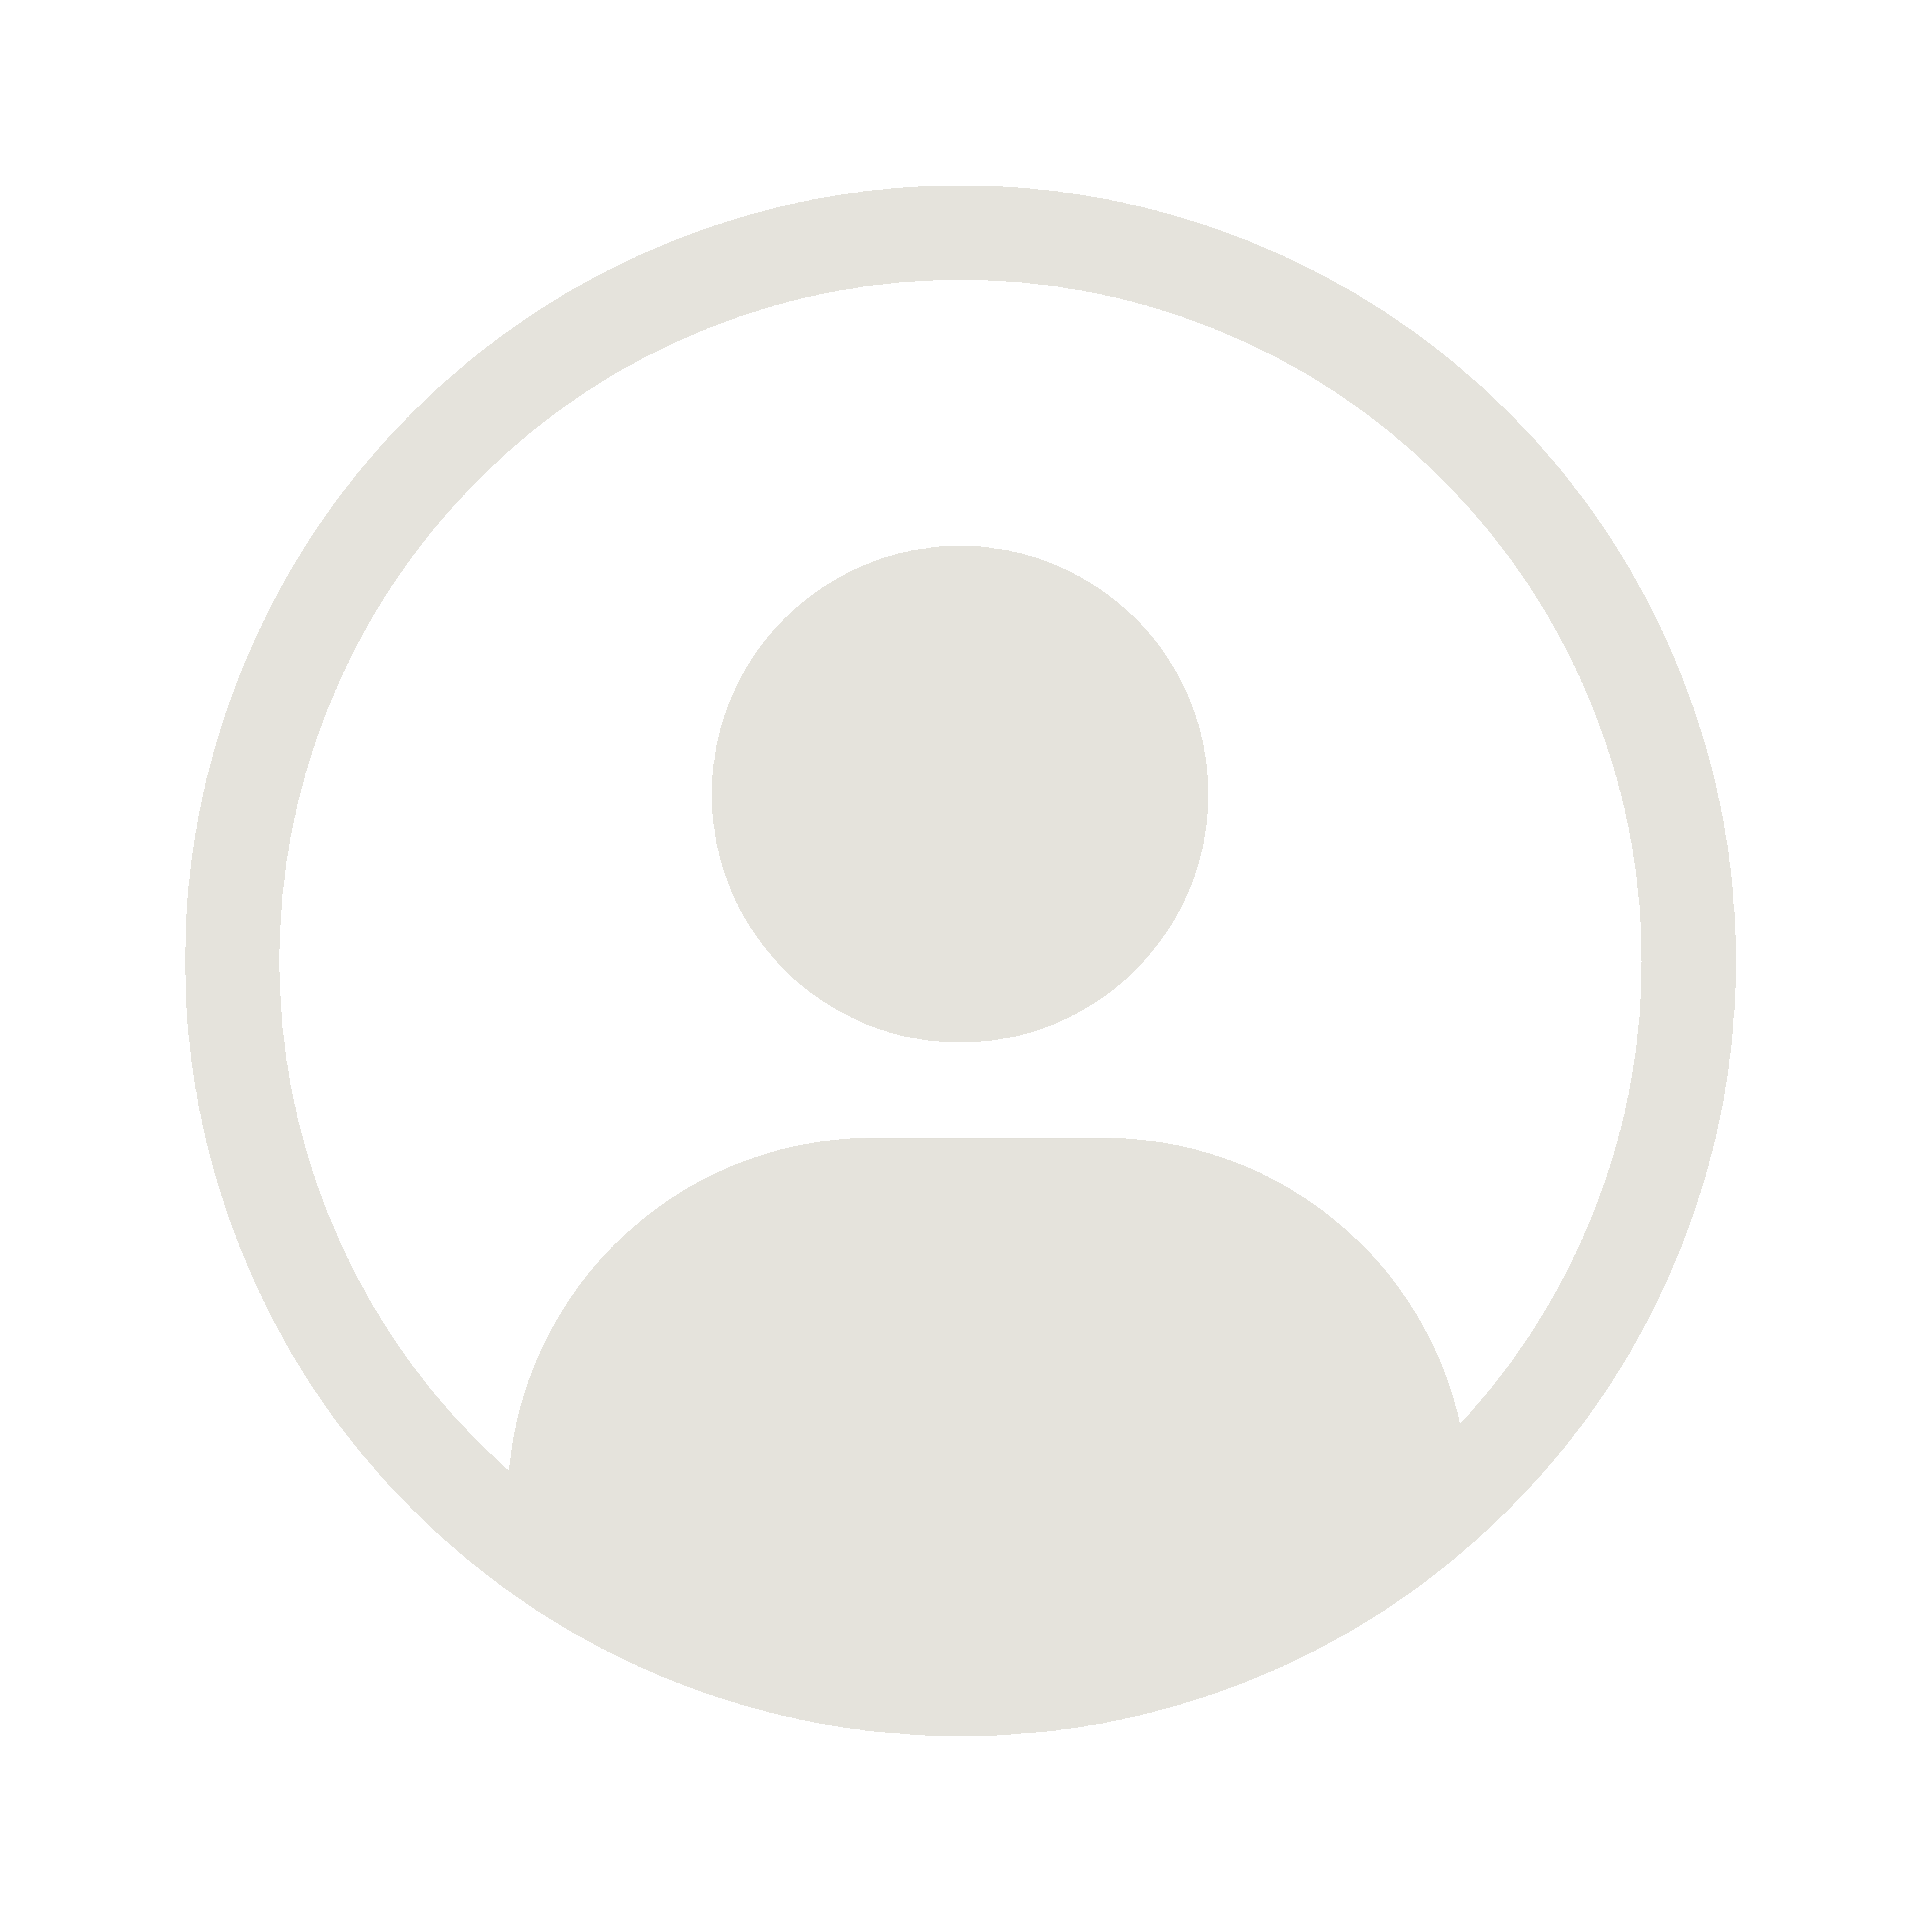
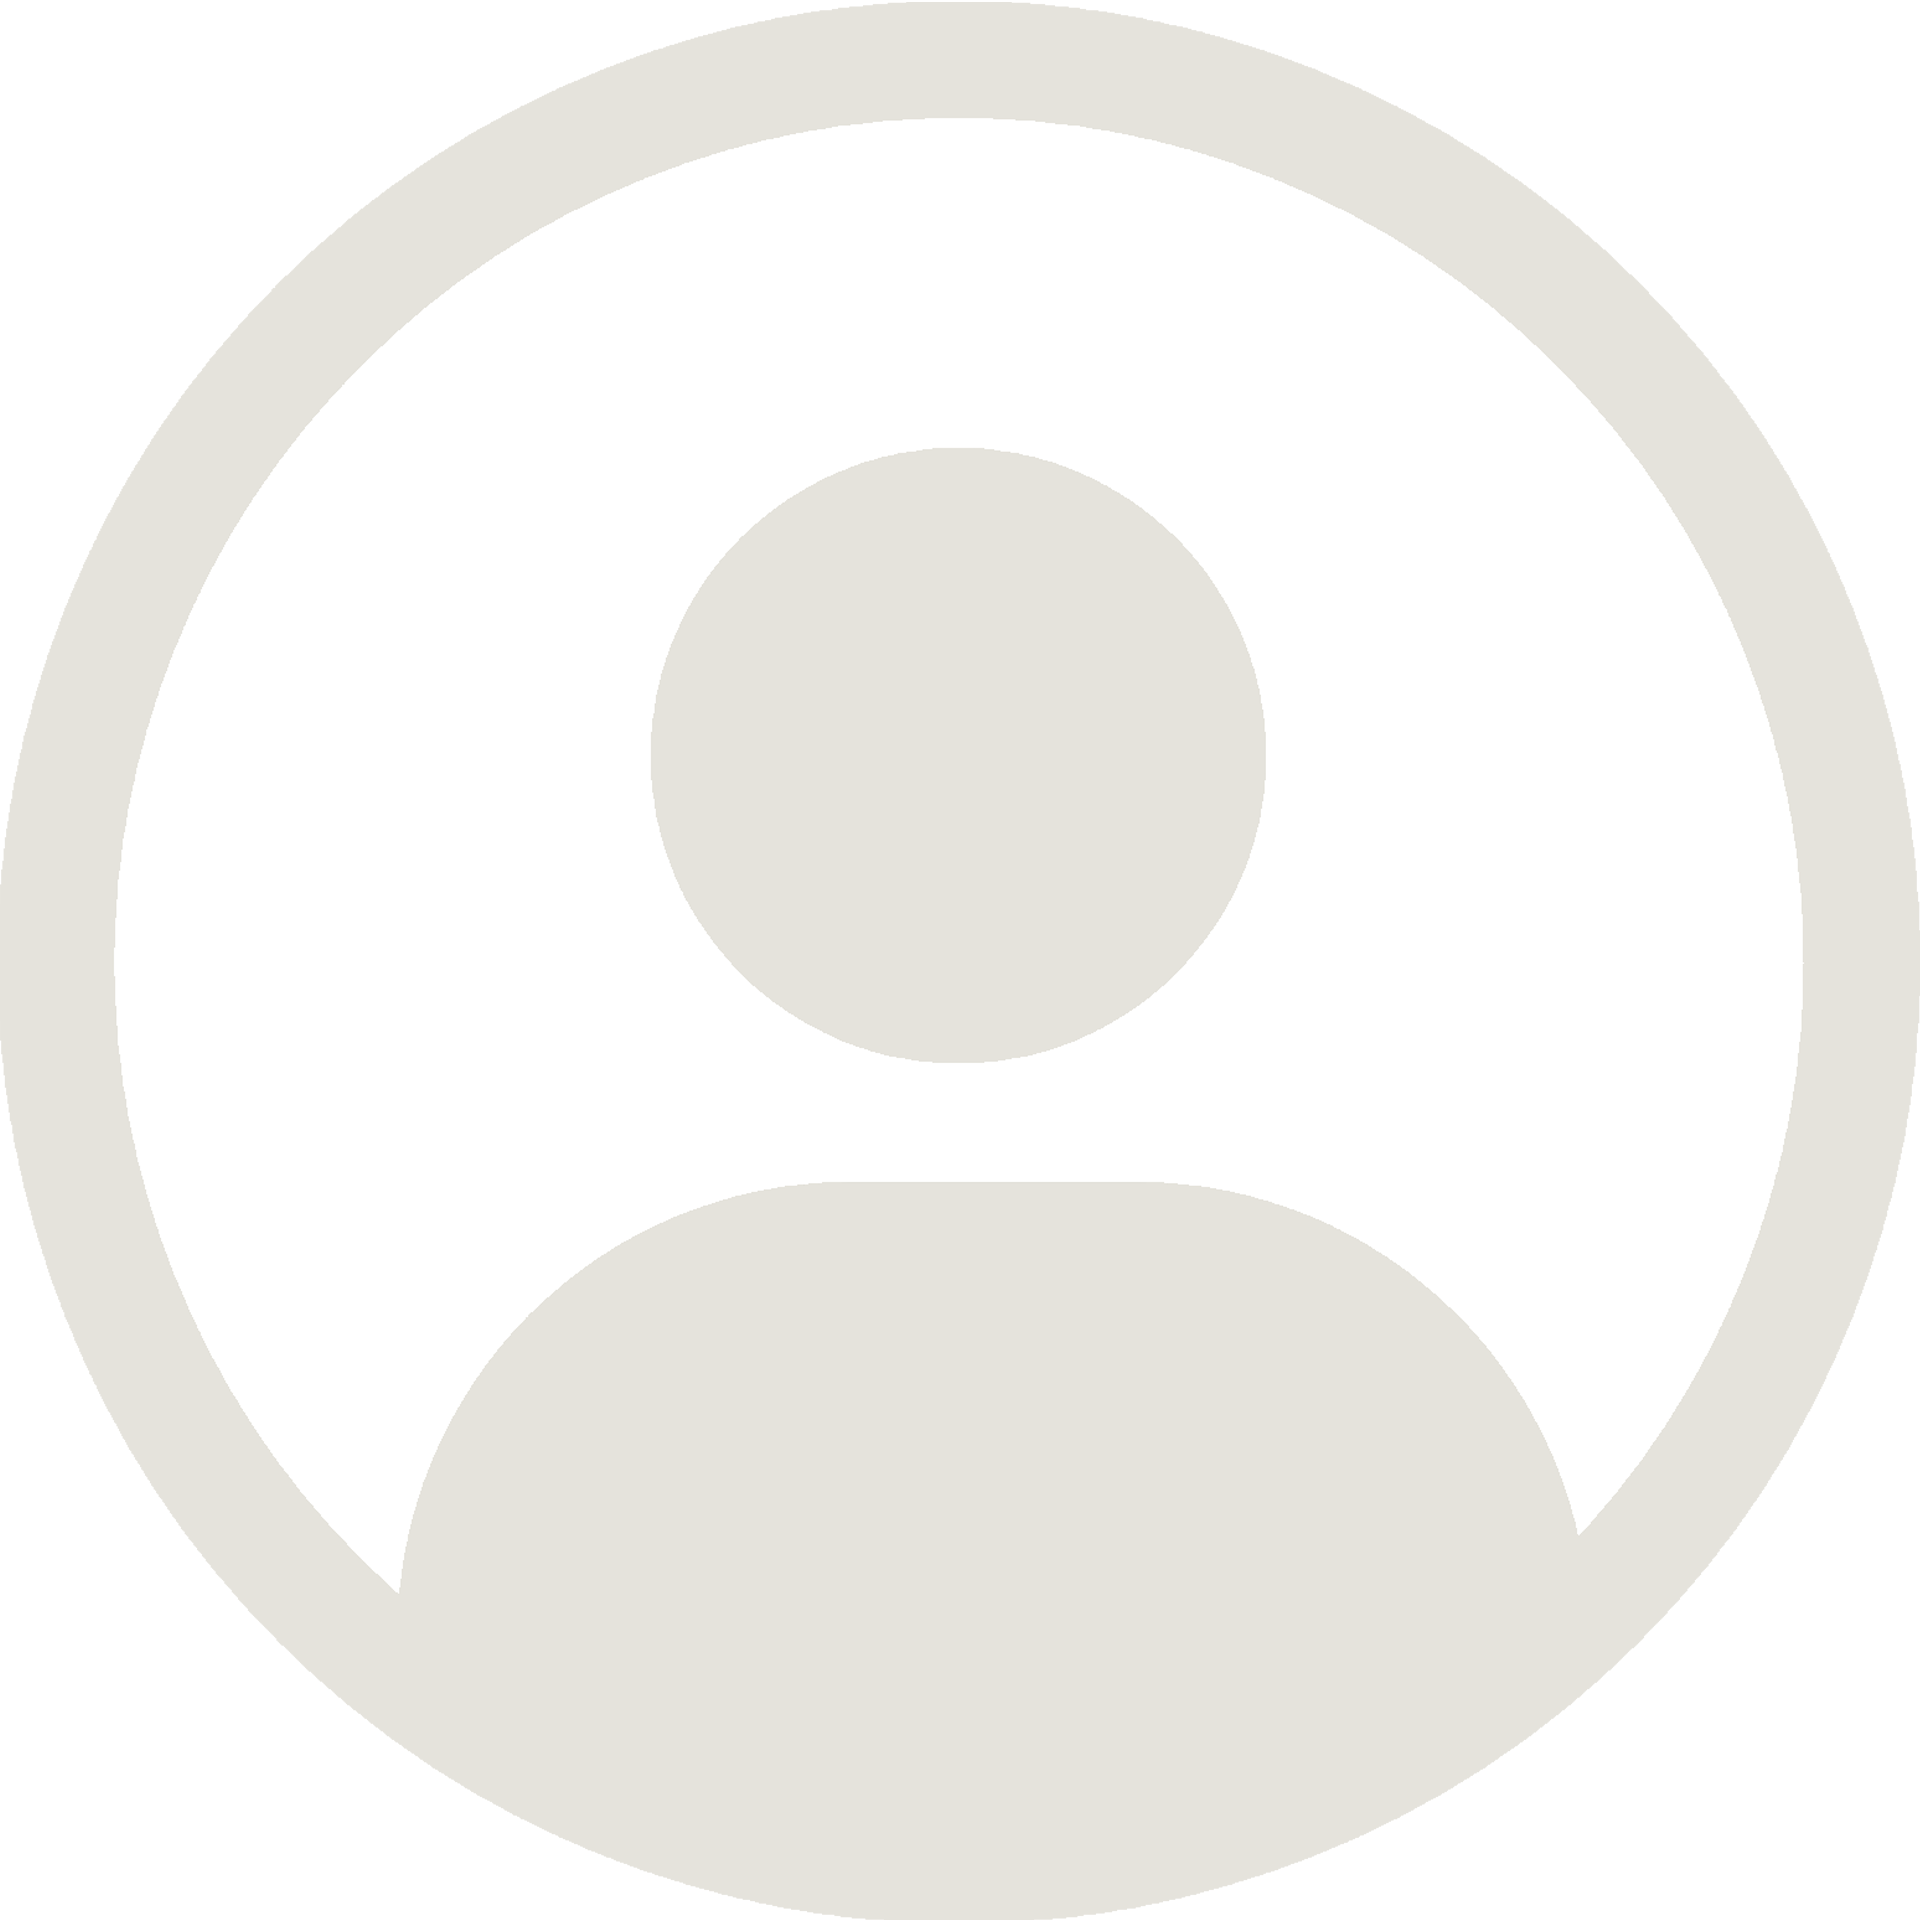
update: stylization of profile page

diff --git a/quiz-project/src/components/commonComponents/Profile/Profile.jsx b/quiz-project/src/components/commonComponents/Profile/Profile.jsx
@@ -139,17 +139,79 @@ const Profile = () => {
             alt="User Avatar"
             className="profile-avatar"
           />
+          <Col className="mt-3">
+            <Col>
+              <div className="btn-edit d-flex justify-content-center justify-content-md-start">
+                {isCurrentUserProfile && (
+                  <Link to="/edit-profile">
+                    <button className="btn-success">Edit Profile</button>
+                  </Link>
+                )}
+                {isCurrentUserProfile && (
+                  <Link to="/shop">
+                    <button className="btn-success ms-3">Shop</button>
+                  </Link>
+                )}
+              </div>
+            </Col>
+          </Col>
         </Col>
 
         {/* Колона за информация за профила */}
-        <Col xs={12} md={6} className="text-center text-md-start">
-          <h2 className="mb-4">{profileData?.username}</h2>
-          <p className="mb-0">First Name: {profileData?.firstName}</p>
-          <p className="mb-0">Last Name: {profileData?.lastName}</p>
-          <p className="mb-0">Phone Number: {profileData?.phone || "N/A"}</p>
-          <p className="mb-0">Wisdom points: {profileData?.currency}</p>
+        <Col xs={12} md={6} className="info-col text-center text-md-start">
+          <h2 className="mb-4" style={{ fontWeight: "bold" }}>
+            {profileData?.username}
+          </h2>
           <p className="mb-0">
-            {profileData?.customInfo || "No additional info provided."}
+            {" "}
+            <img
+              className="mb-1"
+              src="../../../../public/img/R (2).png"
+              alt=""
+              height={20}
+            />{" "}
+            FIRST NAME: {profileData?.firstName}
+          </p>
+          <p className="mb-0">
+            {" "}
+            <img
+              className="mb-1"
+              src="../../../../public/img/R (2).png"
+              alt=""
+              height={20}
+            />{" "}
+            LAST NAME: {profileData?.lastName}
+          </p>
+          <p className="mb-0">
+            {" "}
+            <img
+              className="mb-1"
+              src="../../../../public/img/R (2).png"
+              alt=""
+              height={20}
+            />{" "}
+            PHONE NUMBER: {profileData?.phone || "N/A"}
+          </p>
+          <p className="mb-0">
+            {" "}
+            <img
+              className="mb-1"
+              src="../../../../public/img/R (2).png"
+              alt=""
+              height={20}
+            />
+            {profileData?.customInfo || " No additional info provided."}
+          </p>
+          <br />
+          <p className="mb-0">
+            {" "}
+            <img
+              className="mb-1"
+              src="../../../../public/img/coin-icon.png"
+              alt=""
+              height={20}
+            />{" "}
+            WINDSOM POINTS: {profileData?.currency}
           </p>
         </Col>
 
@@ -205,6 +267,8 @@ const Profile = () => {
                     justifyContent: "center",
                     padding: "5px 10px",
                     fontSize: "12px",
+                    background: "#977746",
+                    border: "#977746",
                   }}
                   onClick={() => handleShowModal("head")}
                 >
@@ -223,6 +287,8 @@ const Profile = () => {
                     justifyContent: "center",
                     padding: "5px 10px",
                     fontSize: "12px",
+                    background: "#977746",
+                    border: "#977746",
                   }}
                   onClick={() => handleShowModal("torso")}
                 >
@@ -234,6 +300,7 @@ const Profile = () => {
                 </Button>
 
                 <Button
+                  className="btn-success"
                   variant="success"
                   style={{
                     display: "flex",
@@ -241,6 +308,8 @@ const Profile = () => {
                     justifyContent: "center",
                     padding: "5px 10px",
                     fontSize: "12px",
+                    background: "#977746",
+                    border: "#977746",
                   }}
                   onClick={() => handleShowModal("legs")}
                 >
@@ -265,36 +334,7 @@ const Profile = () => {
         {/* Removed the Close button from the footer */}
       </Modal>
 
-      <Row className="mt-3">
-        <Col>
-          <div className="d-flex justify-content-center justify-content-md-start">
-            <button className="btn btn-success me-3">All Quizzes</button>
-            {isCurrentUserProfile && (
-              <Link to="/edit-profile">
-                <button className="btn btn-success">Edit Profile</button>
-              </Link>
-            )}
-            {isCurrentUserProfile && (
-              <Link to="/shop">
-                <button className="btn btn-success ms-3">Shop</button>
-              </Link>
-            )}
-          </div>
-        </Col>
-      </Row>
-
-      <hr />
-
-      <Row>
-        <Col>
-          <h4>{profileData?.username}'s Quizzes</h4>
-          <Card className="mt-2">
-            <Card.Body>
-              <p>Quiz 1</p>
-            </Card.Body>
-          </Card>
-        </Col>
-      </Row>
+      
     </Container>
   );
 };

diff --git a/quiz-project/src/components/commonComponents/Profile/Profile.css b/quiz-project/src/components/commonComponents/Profile/Profile.css
@@ -3,11 +3,17 @@
 }
 
 .profile-avatar {
-    width: 150px;
-    height: 150px;
+    width: 220px;
+    height: 220px;
     border-radius: 10px;
     display: block;
     box-shadow: 0px 0px 9px rgba(0, 0, 0, 0.5);
+    border: 10px solid #E5B56A;
+    margin: 20px 0 0 20px;
+}
+
+.info-col {
+    margin-top: 20px !important;
 }
 
 .align-items-center {
@@ -27,7 +33,7 @@ h2, p {
 }
 
 .profile-page {
-    background-color: #f1f1f1;
+  background-color: #f5e8d2;
     box-shadow: 0px 4px 12px rgba(0, 0, 0, 0.1);
     border-radius: 20px;
 }
@@ -35,6 +41,15 @@ h2, p {
 .hero-section {
   text-align: center;
   margin-bottom: 20px;
+  background-color: transparent;
+}
+
+.hero-section > .card {
+  background-color: #E5B56A;
+}
+
+.hero-container {
+  background-image: url('../../../../public/img/hero-background.png')
 }
 
 .hero-customization-container {
@@ -175,3 +190,6 @@ h2, p {
   border-top: 2px solid #ba8b2a;
 }
 
+.btn-edit {
+  margin-left: 29px;
+}
